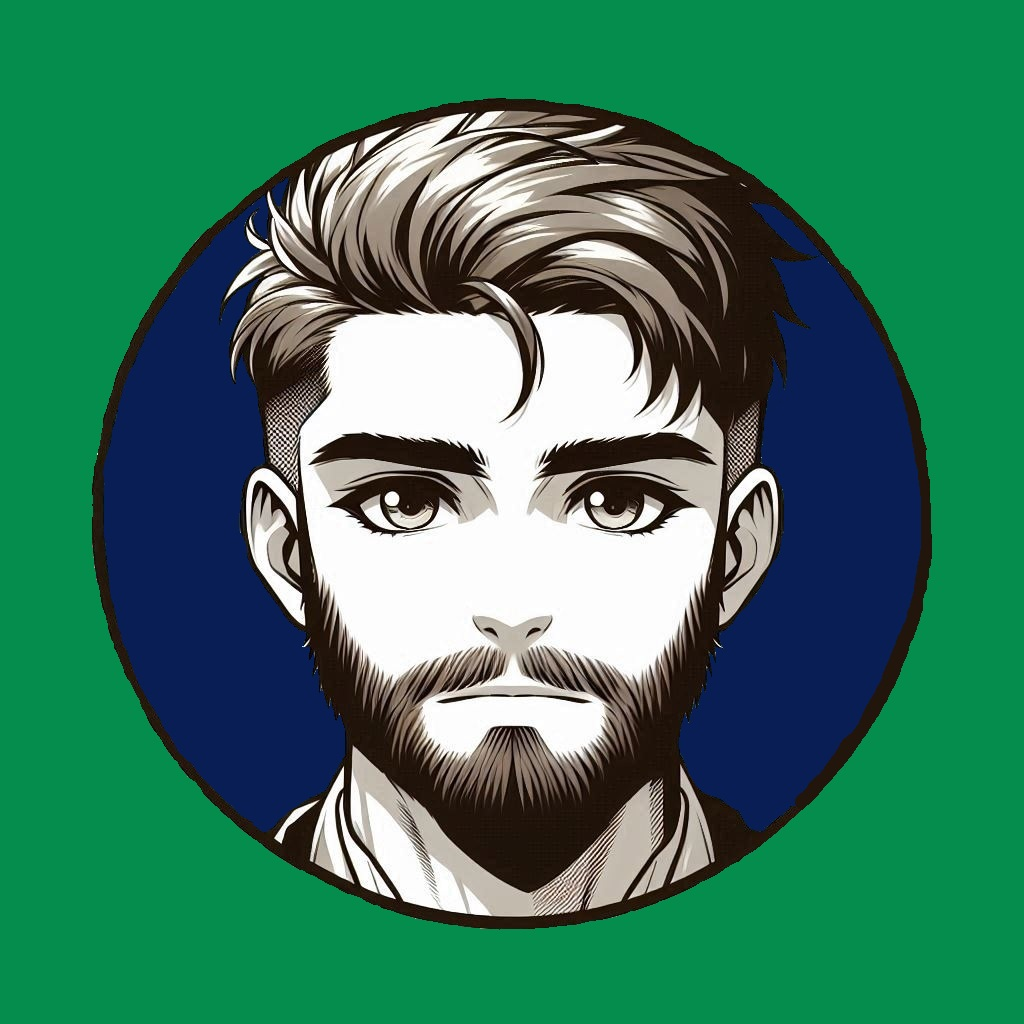
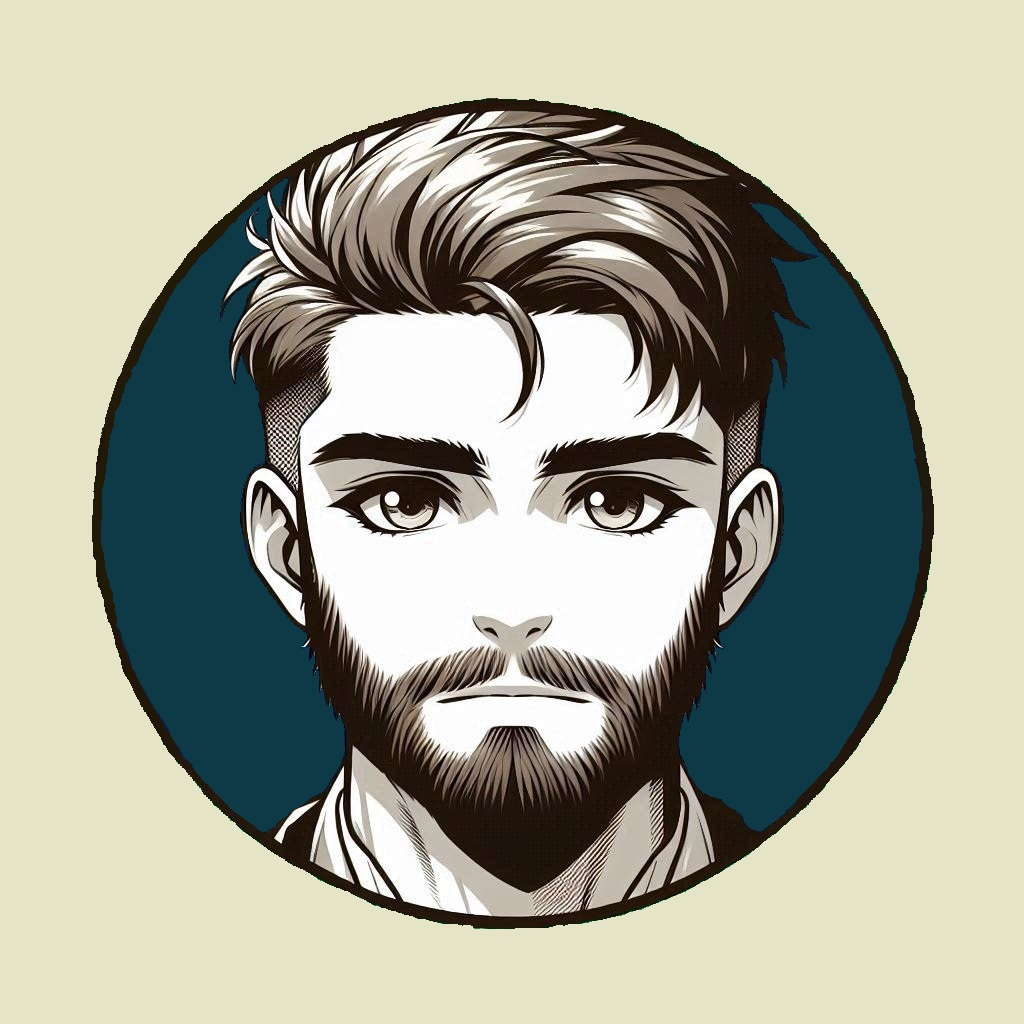
Actualizado colores

diff --git a/index.js b/index.js
@@ -246,22 +246,22 @@ document.querySelectorAll(".proyecto a, .redes a").forEach(link => {
 });
 
 //para mandar el form
+
+emailjs.init("4Ee--GQmPwOCU9Um8"); // Reemplaza TU_USER_ID con tu ID de usuario
+
 document.querySelector("form").addEventListener("submit", function(event) {
-    event.preventDefault(); // Evita recargar la página
+    event.preventDefault();
 
-    const formData = new FormData(this);
+    const serviceID = "service_088ua0g"; // Reemplaza con tu Service ID
+    const templateID = "template_q48w9lp"; // Reemplaza con tu Template ID
+    const form = this;
 
-    fetch("https://estebansm85.ct.ws/contacto.php", {
-        method: "POST",
-        body: formData
-    })
-    .then(response => response.text())
-    .then(data => {
-        console.log("Respuesta del servidor:", data);
-        alert("Mensaje enviado correctamente!");
-    })
-    .catch(error => {
-        console.error("Error:", error);
-        alert("Error al enviar el mensaje.");
-    });
+    emailjs.sendForm(serviceID, templateID, form)
+        .then(() => {
+            alert("¡Mensaje enviado correctamente!");
+            form.reset();
+        }, (error) => {
+            console.error("Error:", error);
+            alert("Error al enviar el mensaje.");
+        });
 });

diff --git a/index.html b/index.html
@@ -7,6 +7,7 @@
     <link rel="stylesheet" href="styles.css">
     <script src="index.js" defer></script>
     <script src="data.js"></script>
+    <script type="text/javascript" src="https://cdn.emailjs.com/dist/email.min.js"></script>
 </head>
 <body>
     <header>
@@ -25,12 +26,7 @@
         <section id="contacto">
             <h2>Contacto</h2>
             
-<<<<<<< HEAD
             <form action="https://estebansm85.ct.ws/contacto.php" method="POST">
-=======
-                
-                <form action="contacto.php" method="POST">
->>>>>>> a472d9b (Email con javascript en vez de php)
                 <label for="nombre">Nombre:</label>
                 <input type="text" id="nombre" name="nombre" required >
 

diff --git a/styles.css b/styles.css
@@ -6,9 +6,10 @@
 :root{
     --color-texto-titulo: #ffffff; /* Color del texto de los títulos */
     --color-texto: rgba(255, 255, 255, 0.867); /* Color general del texto con cierta transparencia */
-    --color-boton: #058d4e; /* Color de fondo para los botones */
-    --color-fondo: #091e55; /* Color de fondo de la página */
-    --color-fondo-tarjeta: #4511be5e; /* Color de fondo de las tarjetas */
+    --color-boton: #E6E4C6; /* Color de fondo para los botones */
+    --color-fondo: #0E3A47; /* Color de fondo de la página */
+    --color-fondo-tarjeta: #ffffff27
+    ; /* Color de fondo de las tarjetas */
 }
 
 /* 
